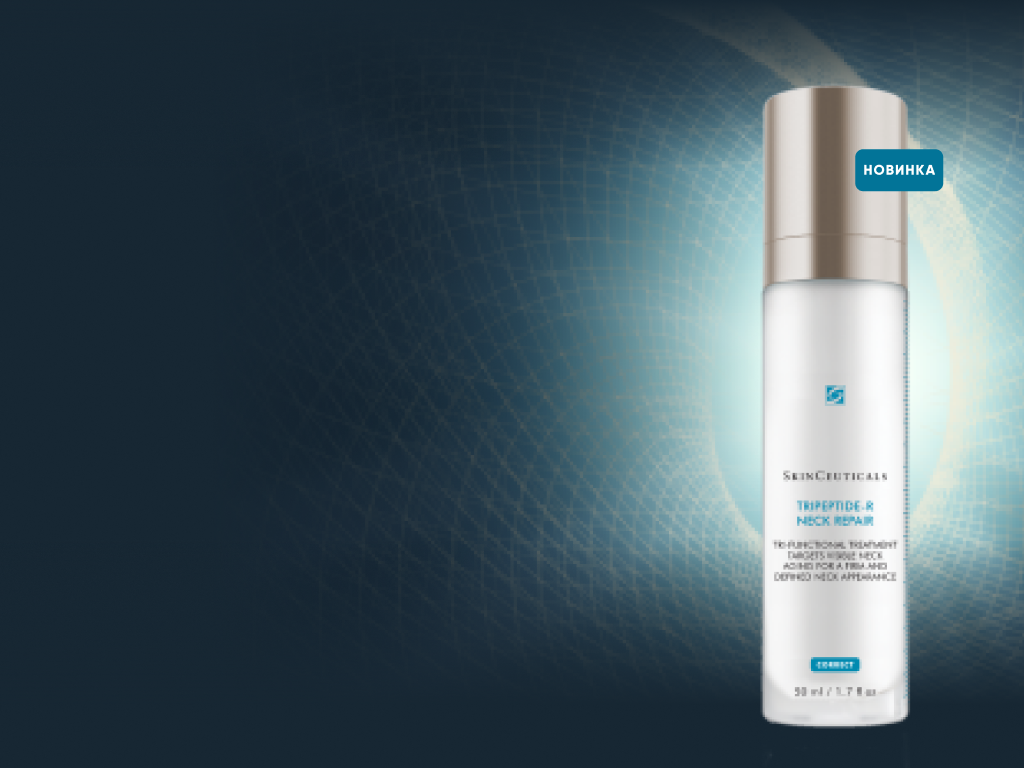
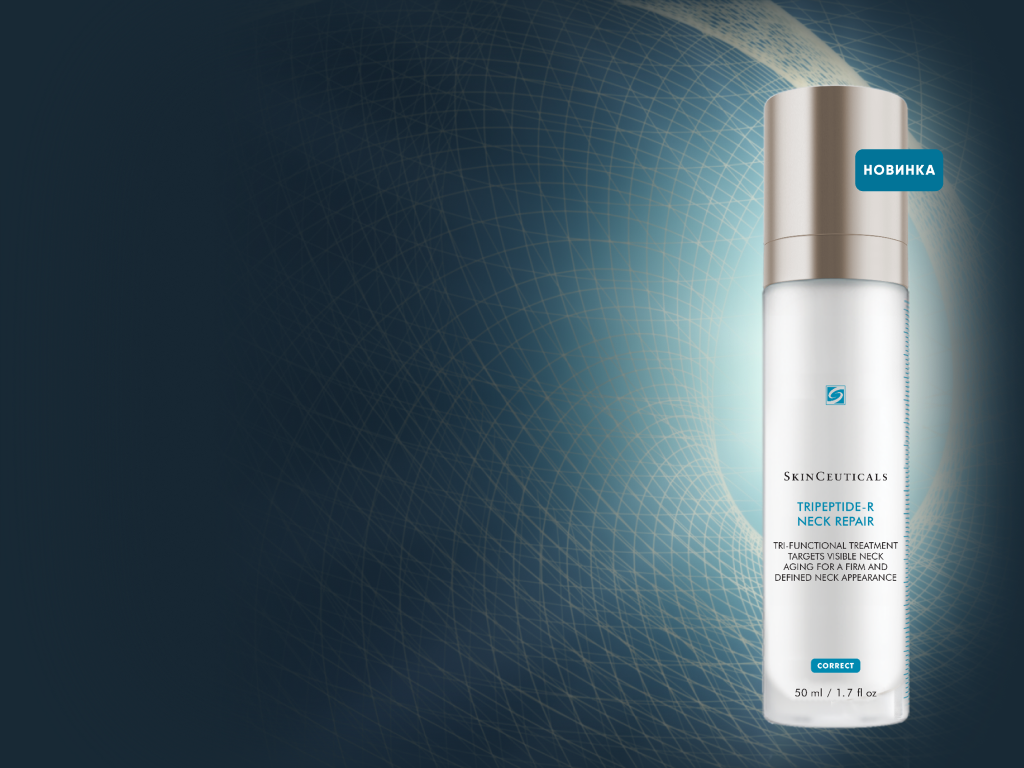
some bg fixed

diff --git a/011_skinceuticals/002_tripeptide/css/stylev3.css b/011_skinceuticals/002_tripeptide/css/stylev3.css
@@ -56,11 +56,25 @@ html {
   justify-content: space-around;
   position: relative;
   overflow: hidden;
-  background: #172733;
+  background: #172935;
 }
 
 .wrap .over-wrap {
   position: relative;
+}
+
+.wrap .bg0 {
+  background-color: #172935;
+}
+
+.wrap .bg0:after {
+  content: '';
+  position: absolute;
+  top: 0;
+  left: 50%;
+  bottom: 0;
+  width: 50%;
+  background-color: #182934;
 }
 
 .wrap .bg {

diff --git a/011_skinceuticals/002_tripeptide/index.html b/011_skinceuticals/002_tripeptide/index.html
@@ -9,6 +9,7 @@
   </head>
   <body>
     <div class="wrap">
+      <div class="abs bg bg0"></div>
       <div class="abs bg bg1 hide"></div>
       <div class="over-wrap">
         <div id="page">

diff --git a/011_skinceuticals/005_advanced/css/stylev3.css b/011_skinceuticals/005_advanced/css/stylev3.css
@@ -224,7 +224,7 @@ html {
   bottom: 0;
   right: 0;
   width: 1024px;
-  height: 618px;
+  height: 768px;
   background-image: url(../images/05/tub.png);
 }
 
